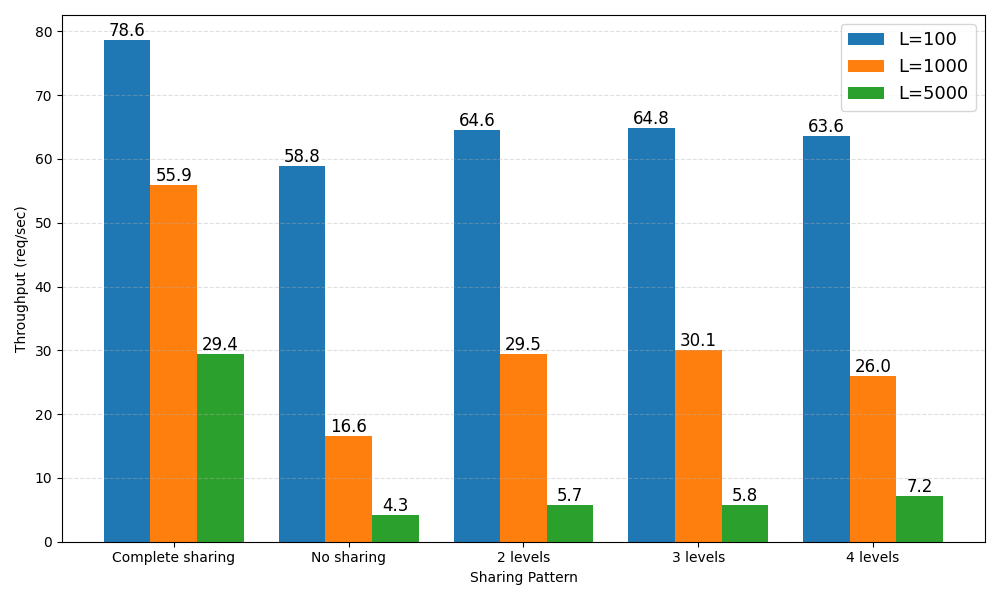
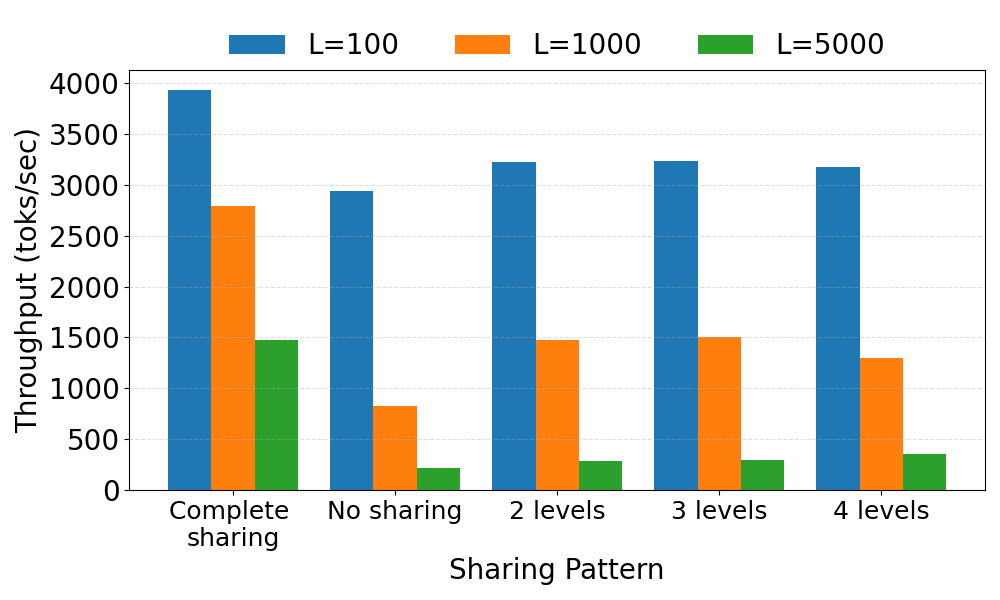
sharing at top

diff --git a/code/vllm/plot_radix.py b/code/vllm/plot_radix.py
@@ -11,7 +11,7 @@ LOG_FILE = "/home/saksham/CS496/code/vllm/radix_tree_experiment_results.txt"  # 
 
 # Fill this with your custom names
 RENAMING_MAP = {
-    1: "Complete sharing",
+    1: "Complete \nsharing",
     5: "No sharing",
     9: "2 levels",
     10: "3 levels",
@@ -63,24 +63,24 @@ plt.figure(figsize=(10, 6))
 for i, L in enumerate(all_L_values):
     throughputs = []
     for mode in all_modes:
-        throughputs.append(data[mode].get(L, 0))  # 0 if missing
+        throughputs.append(data[mode].get(L, 0)*50)  # 0 if missing
 
     offset = (i - num_L / 2) * bar_width + bar_width / 2
     bars = plt.bar(x + offset, throughputs, width=bar_width, label=f"L={L}")
 
     # === ADD THIS BLOCK TO PRINT VALUES ON TOP ===
-    for bar in bars:
-        height = bar.get_height()
-        if height > 0:  # avoid printing 0 bars
-            plt.text(
-                bar.get_x() + bar.get_width() / 2,
-                height,
-                f"{height:.1f}",     # format (change decimals if needed)
-                ha="center",
-                va="bottom",
-                fontsize=12,
-                rotation=0,
-            )
+    # for bar in bars:
+    #     height = bar.get_height()
+    #     if height > 0:  # avoid printing 0 bars
+    #         plt.text(
+    #             bar.get_x() + bar.get_width() / 2,
+    #             height,
+    #             f"{height:.1f}",     # format (change decimals if needed)
+    #             ha="center",
+    #             va="bottom",
+    #             fontsize=12,
+    #             rotation=0,
+    #         )
 
 # =========================
 # LABELING
@@ -91,12 +91,19 @@ mode_labels = [
     for mode in all_modes
 ]
 
-plt.xticks(x, mode_labels)
-plt.ylabel("Throughput (req/sec)")
-plt.xlabel("Sharing Pattern")
+plt.xticks(x, mode_labels, fontsize=18)
+plt.yticks(fontsize=20)
+plt.ylabel("Throughput (toks/sec)", fontsize=20)
+plt.xlabel("Sharing Pattern", fontsize=20)
 # plt.title("Throughput Across Sharing for Different L Values")
-plt.legend(fontsize=13)
+plt.legend(
+    fontsize=20,
+    loc="upper center",
+    bbox_to_anchor=(0.5, 1.15),  # move legend above plot
+    ncol=len(all_L_values),      # put all L values in one row
+    frameon=False
+)
 plt.grid(axis="y", linestyle="--", alpha=0.4)
 
 plt.tight_layout()
-plt.savefig("../../results/tp_different_modes_sharing_at_top_5L.png")
+plt.savefig("../../results/tp_different_modes_sharing_at_top.png")
